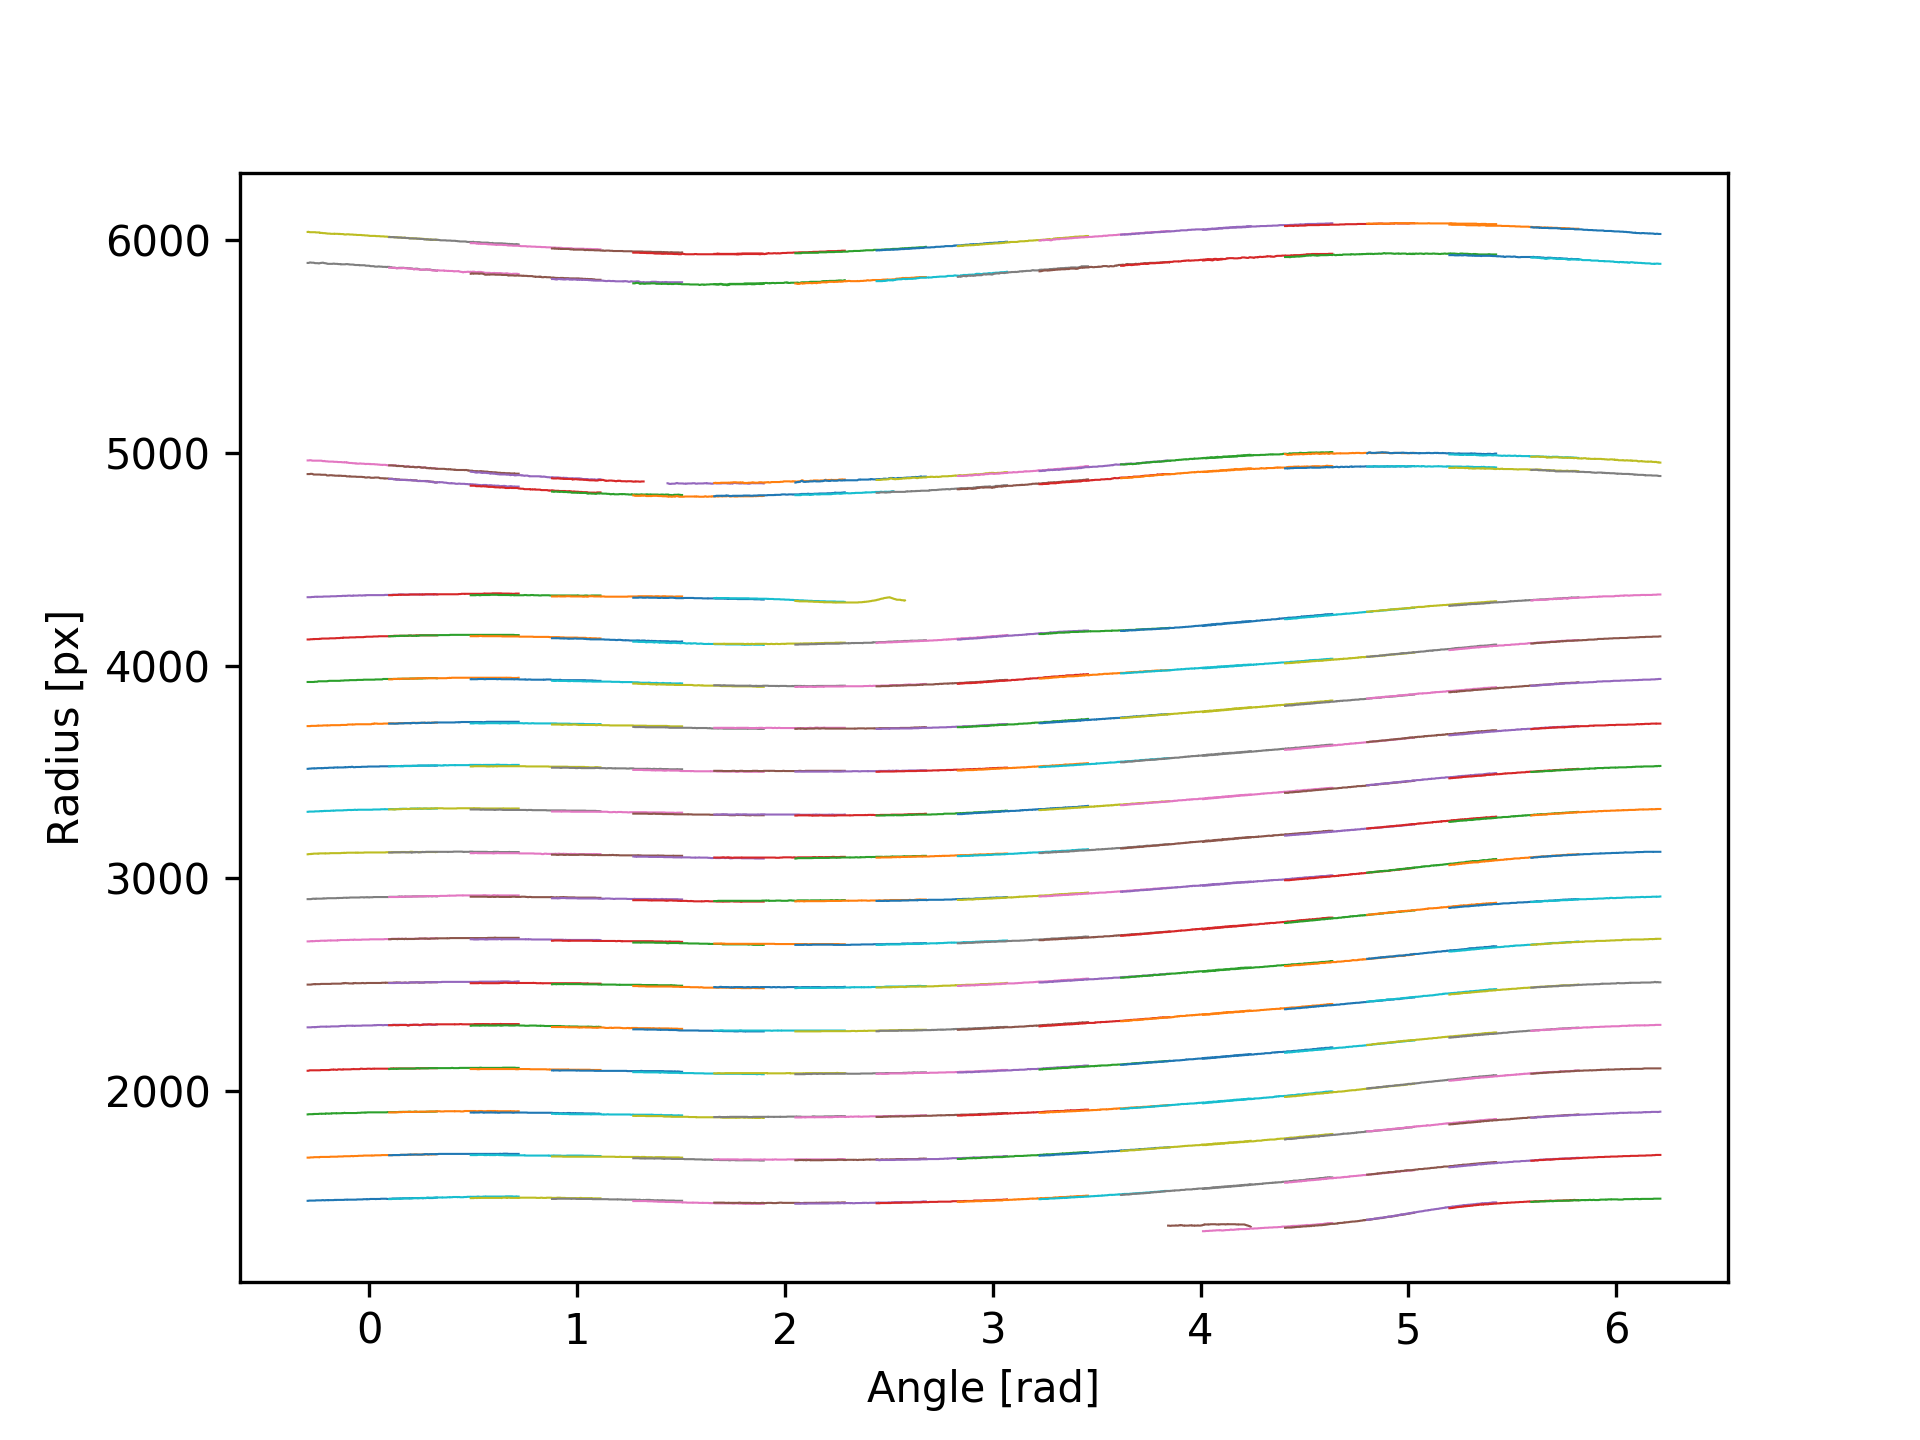
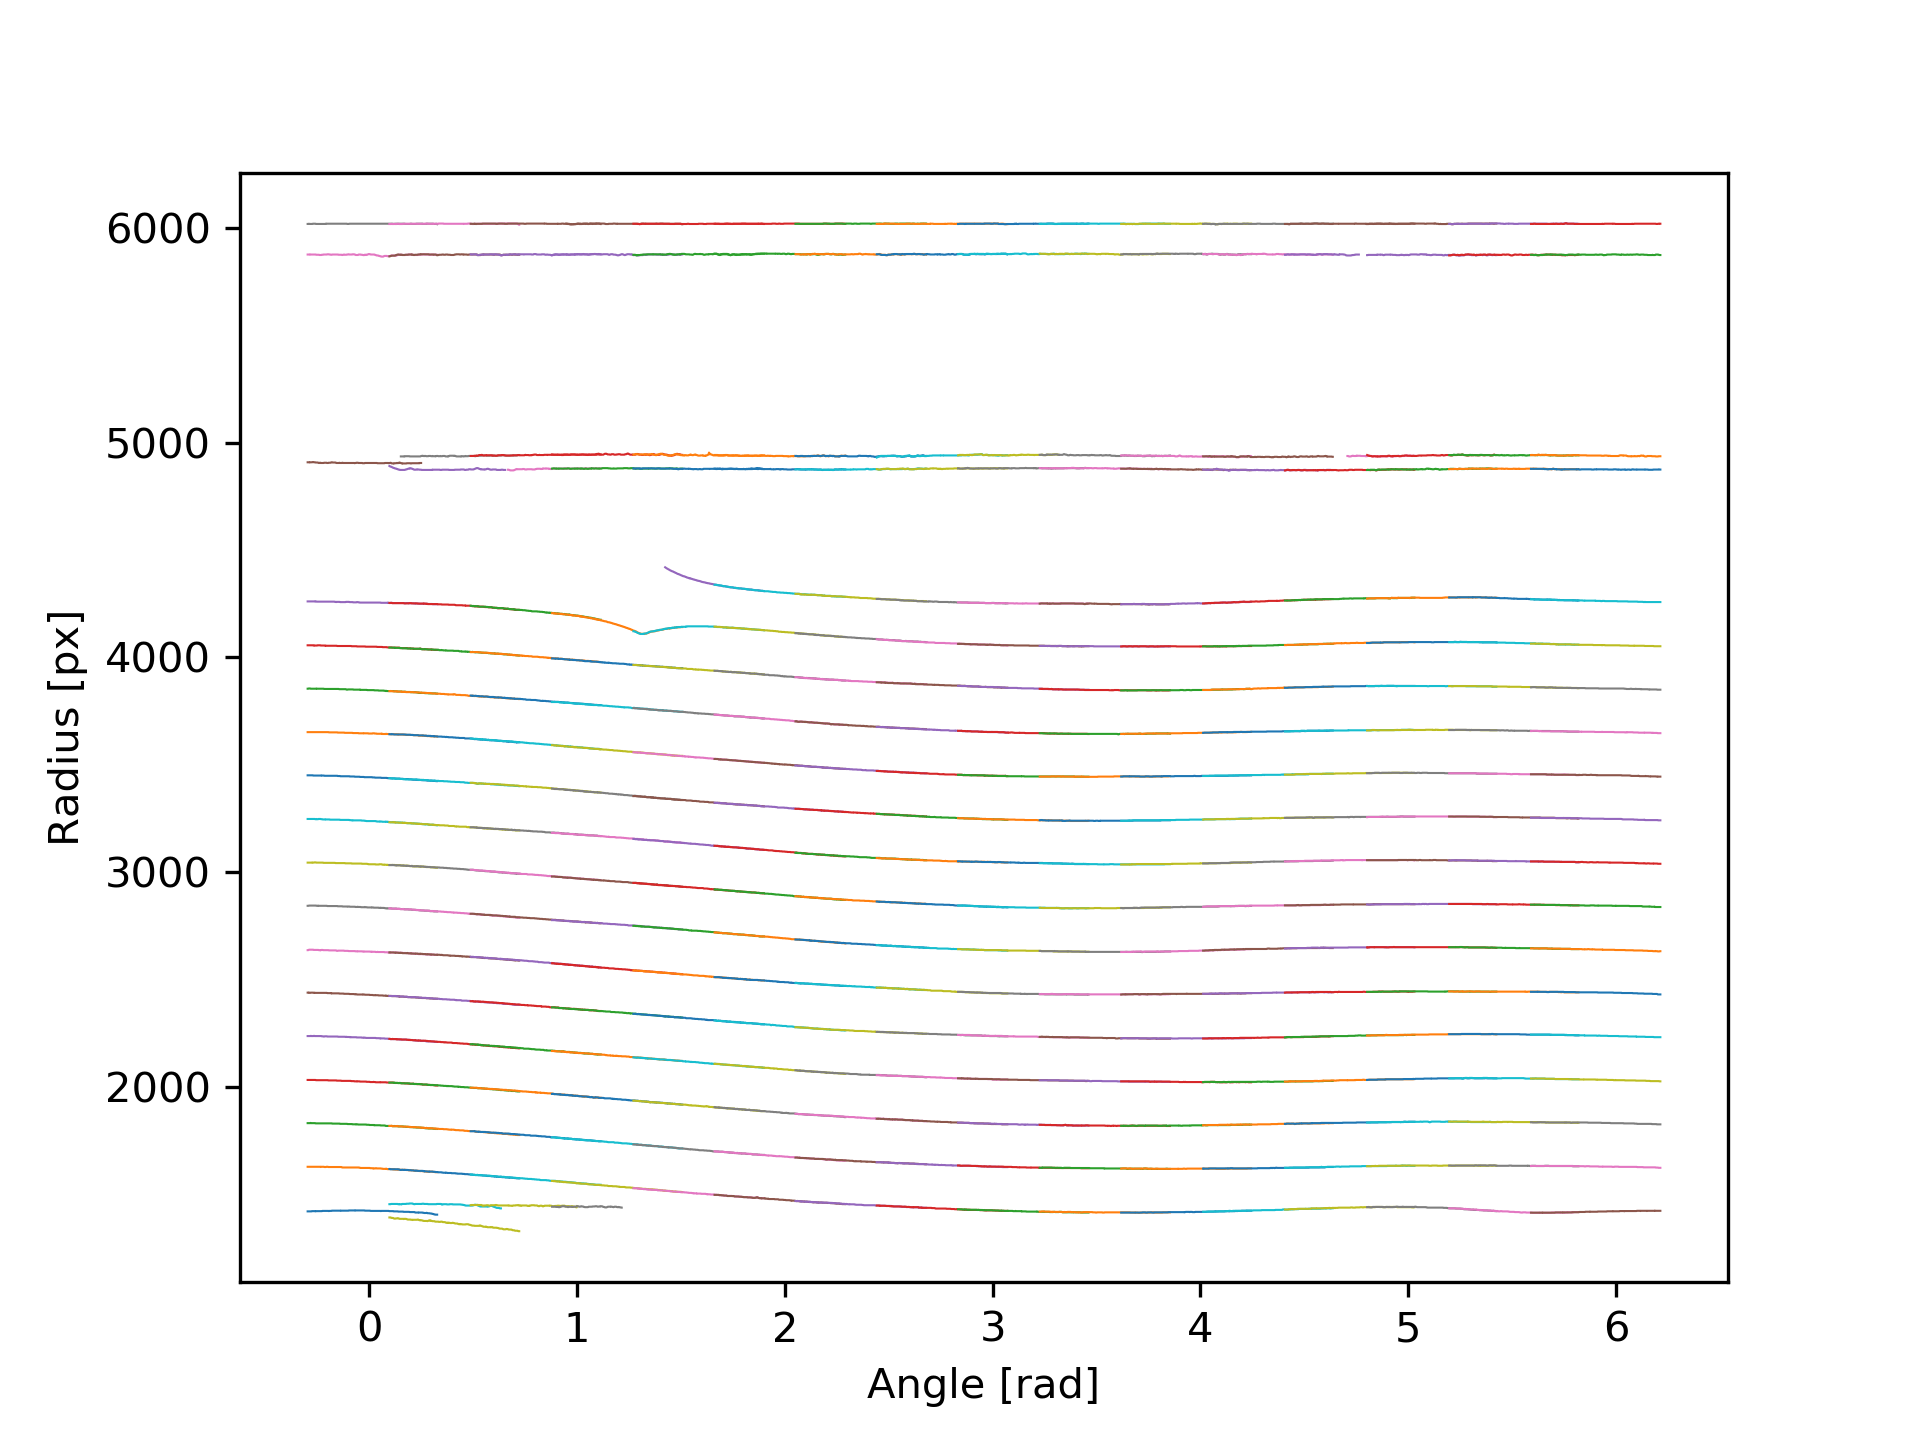
Bug hunting

diff --git a/sectorImage/core/stitcher.py b/sectorImage/core/stitcher.py
@@ -91,12 +91,17 @@ class Stitcher:
             stepsize_radii = (image.radii[-1] - image.radii[0]) / len(image.radii)
             if image.start[1] > ampstart:
                 # rstart = image.start[0][1] * stepsize_radii
-                pstart = (image.start[0][0] * stepsize_angles) + image.angles[0] + (i * 2 * np.pi / len(self.fns))
+                # pstart = (image.start[0][0] * stepsize_angles) + image.angles[0] + (i * 2 * np.pi / len(self.fns))
+                print(image.start[0][0])
+                pstart = (image.angles[image.start[0][0]] + (i * 2 * np.pi / len(self.fns)))
+                print(pstart)
                 ampstart = image.start[1]
             for j, coord in enumerate(zip(image.r, image.phi)):
                 rs, phis = coord
-                phis = (np.array(phis) * stepsize_angles) + image.angles[0] + (i * 2 * np.pi / len(self.fns))
-                rs = (np.array(rs) * stepsize_radii)
+                # phis = (np.array(phis) * stepsize_angles) + image.angles[0] + (i * 2 * np.pi / len(self.fns))
+                phis = image.angles[np.array(phis)] + (i * 2 * np.pi / len(self.fns))
+                #rs = (np.array(rs) * stepsize_radii) + image.radii[0]
+                rs = image.radii[np.array(rs)]
                 s = (phis, rs, i, j)
                 segments.append(s)
                 if plot:

diff --git a/applied/pair.py b/applied/pair.py
@@ -33,7 +33,9 @@ class Pair:
         self.timestamp = (str(t.year) + '-' + str(t.month) + '-' + str(t.day) + '-' +
                           str(t.hour) + '-' + str(t.minute) + '-' + str(t.second))
 
-    def store(self):
+    def store(self, fn=None):
+        if fn is not None:
+            self.serial = fn
         attributes = {'serial': self.serial,
                       'timestamp': self.timestamp,
                       'calib size': self.env.calib_size_mm,
@@ -87,11 +89,9 @@ class Pair:
         ax = fig.add_subplot(111)
         for i, e in enumerate(self.electrodes):
             r_interp = np.interp(global_phis, np.abs(e.phis)[::e.chirality], e.rs[::e.chirality])
-            # global_phis += i * np.pi
-            shiftx = 0
-            shifty = 0
-            x = r_interp / e.scale * np.cos(global_phis) + i * shiftx
-            y = r_interp / e.scale * np.sin(global_phis) + i * shifty
+            global_phis += i * np.pi
+            x = r_interp * np.cos(global_phis)
+            y = r_interp * np.sin(global_phis)
             ax.plot(x, y, lw=1)
         ax.set_aspect('equal')
         fig.savefig(__location__ + '/data/plots/' + str(self.serial) + '_interpolated.png', dpi=300)

diff --git a/applied/main.py b/applied/main.py
@@ -9,12 +9,12 @@ from pair import Pair
 
 
 def main():
-    s = Sequence(offsite=True)
+    s = Sequence(offsite=False)
     s.prime()
-    # pair = s.measure(n=16)
-    # pair.store()
+    pair = s.measure(n=16)
+    pair.store()
     # pair.load()
-    pair = Pair('CSAT_LabTest.h5', fromFile=True)
+    # pair = Pair('CSAT_LabTest.h5', fromFile=True)
     pair.computeGap()
     pair.plot()
     # s.storeSpiral(spiral)
